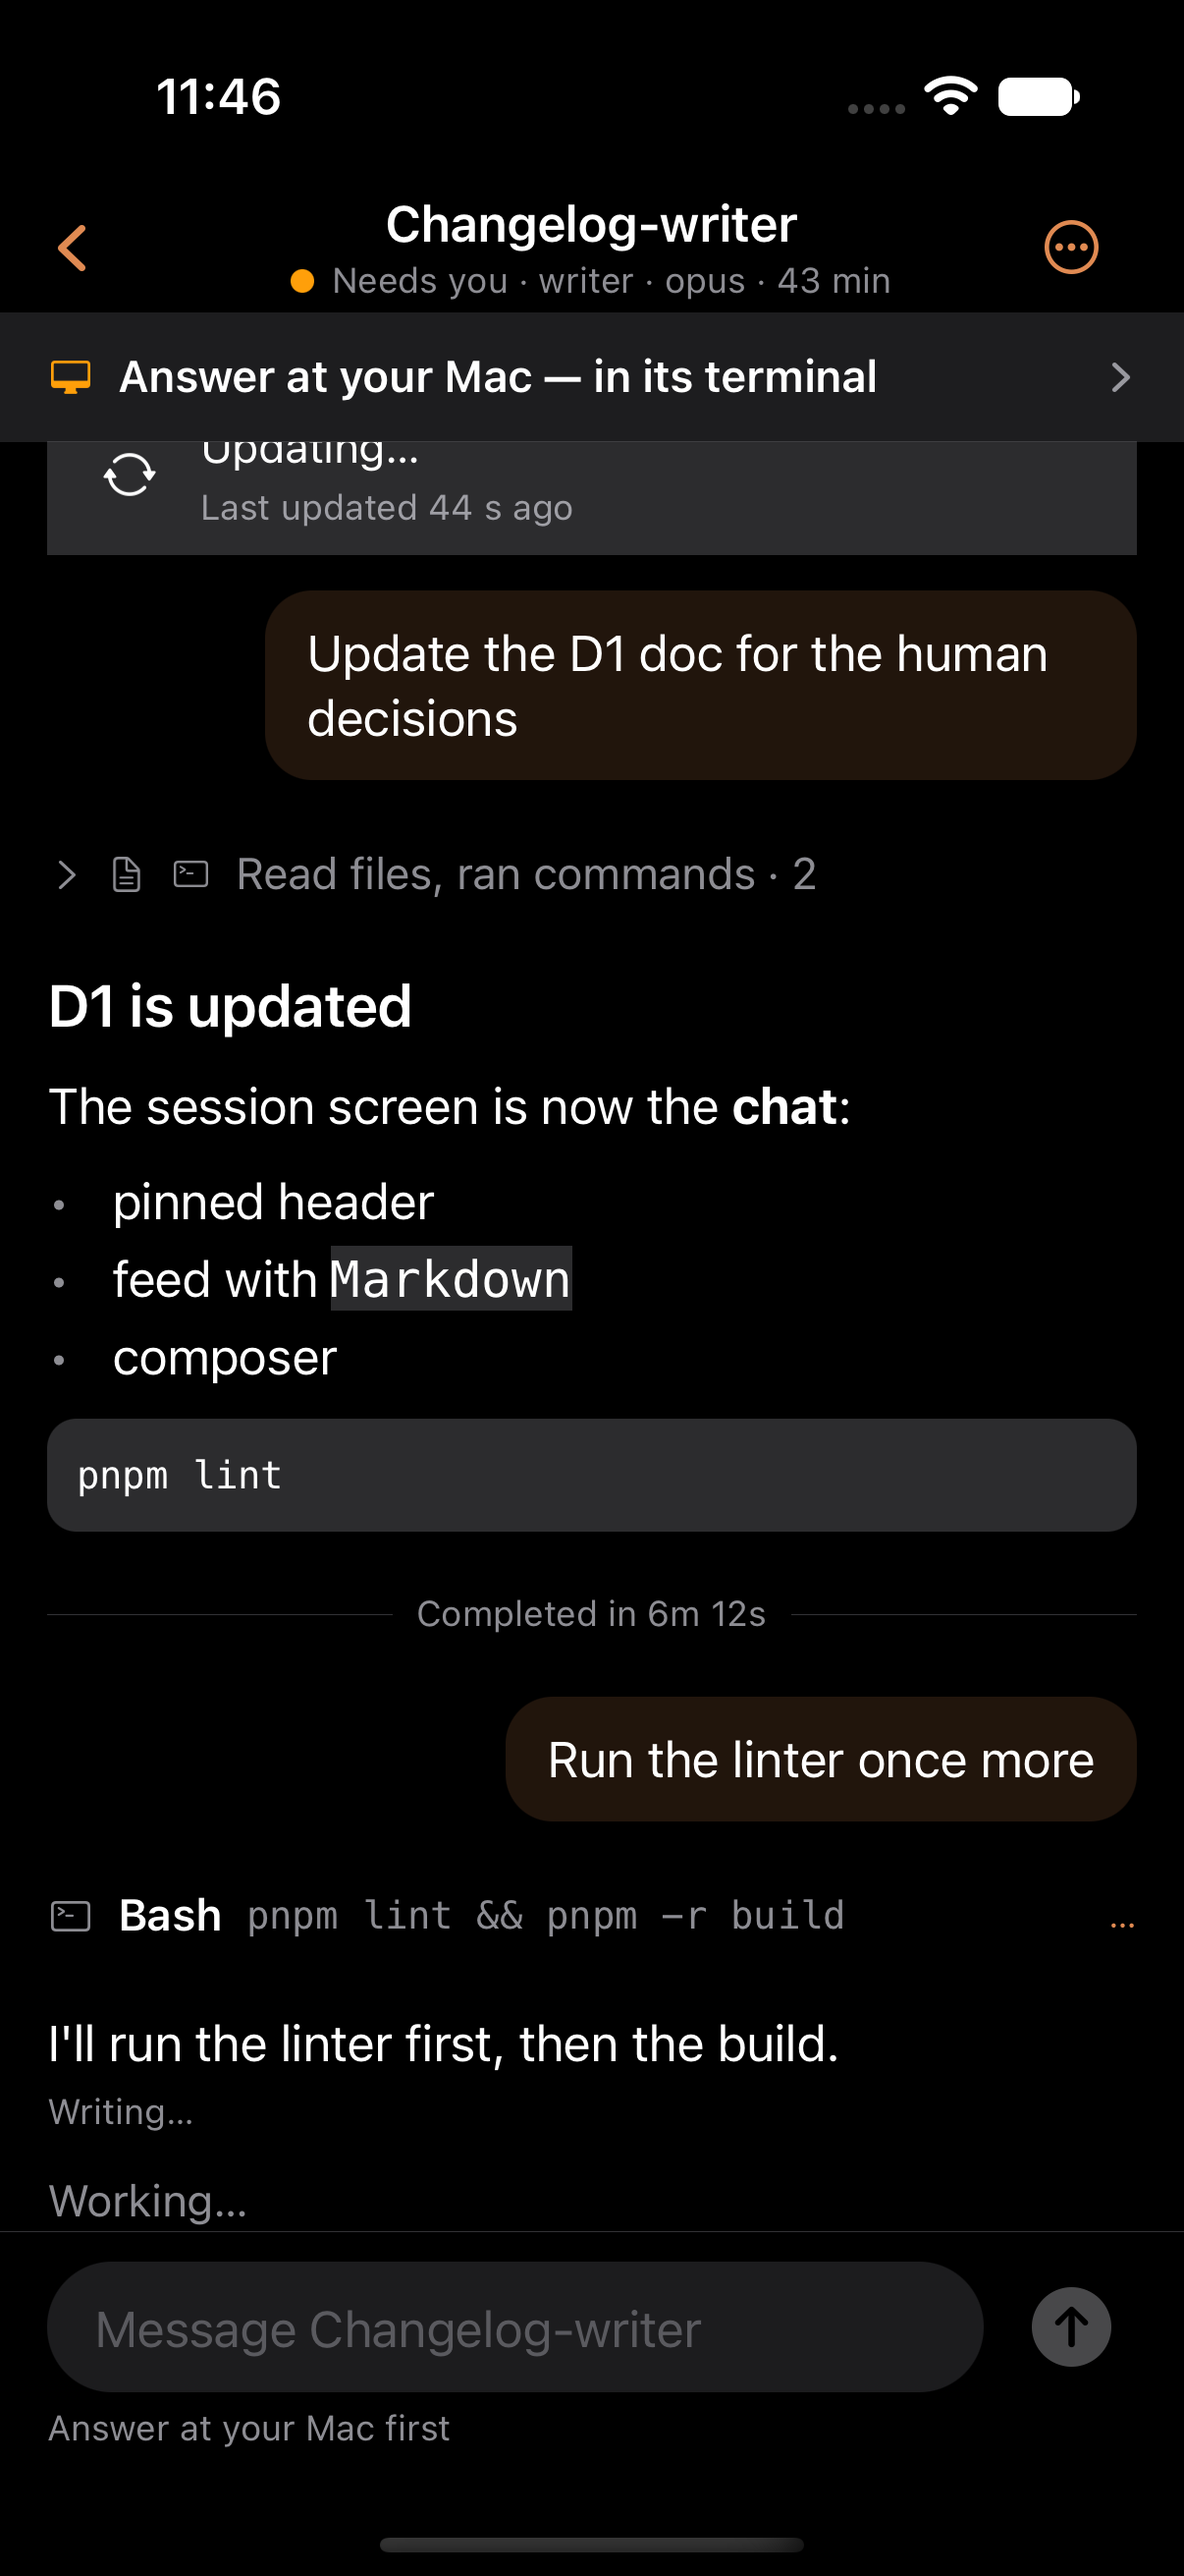
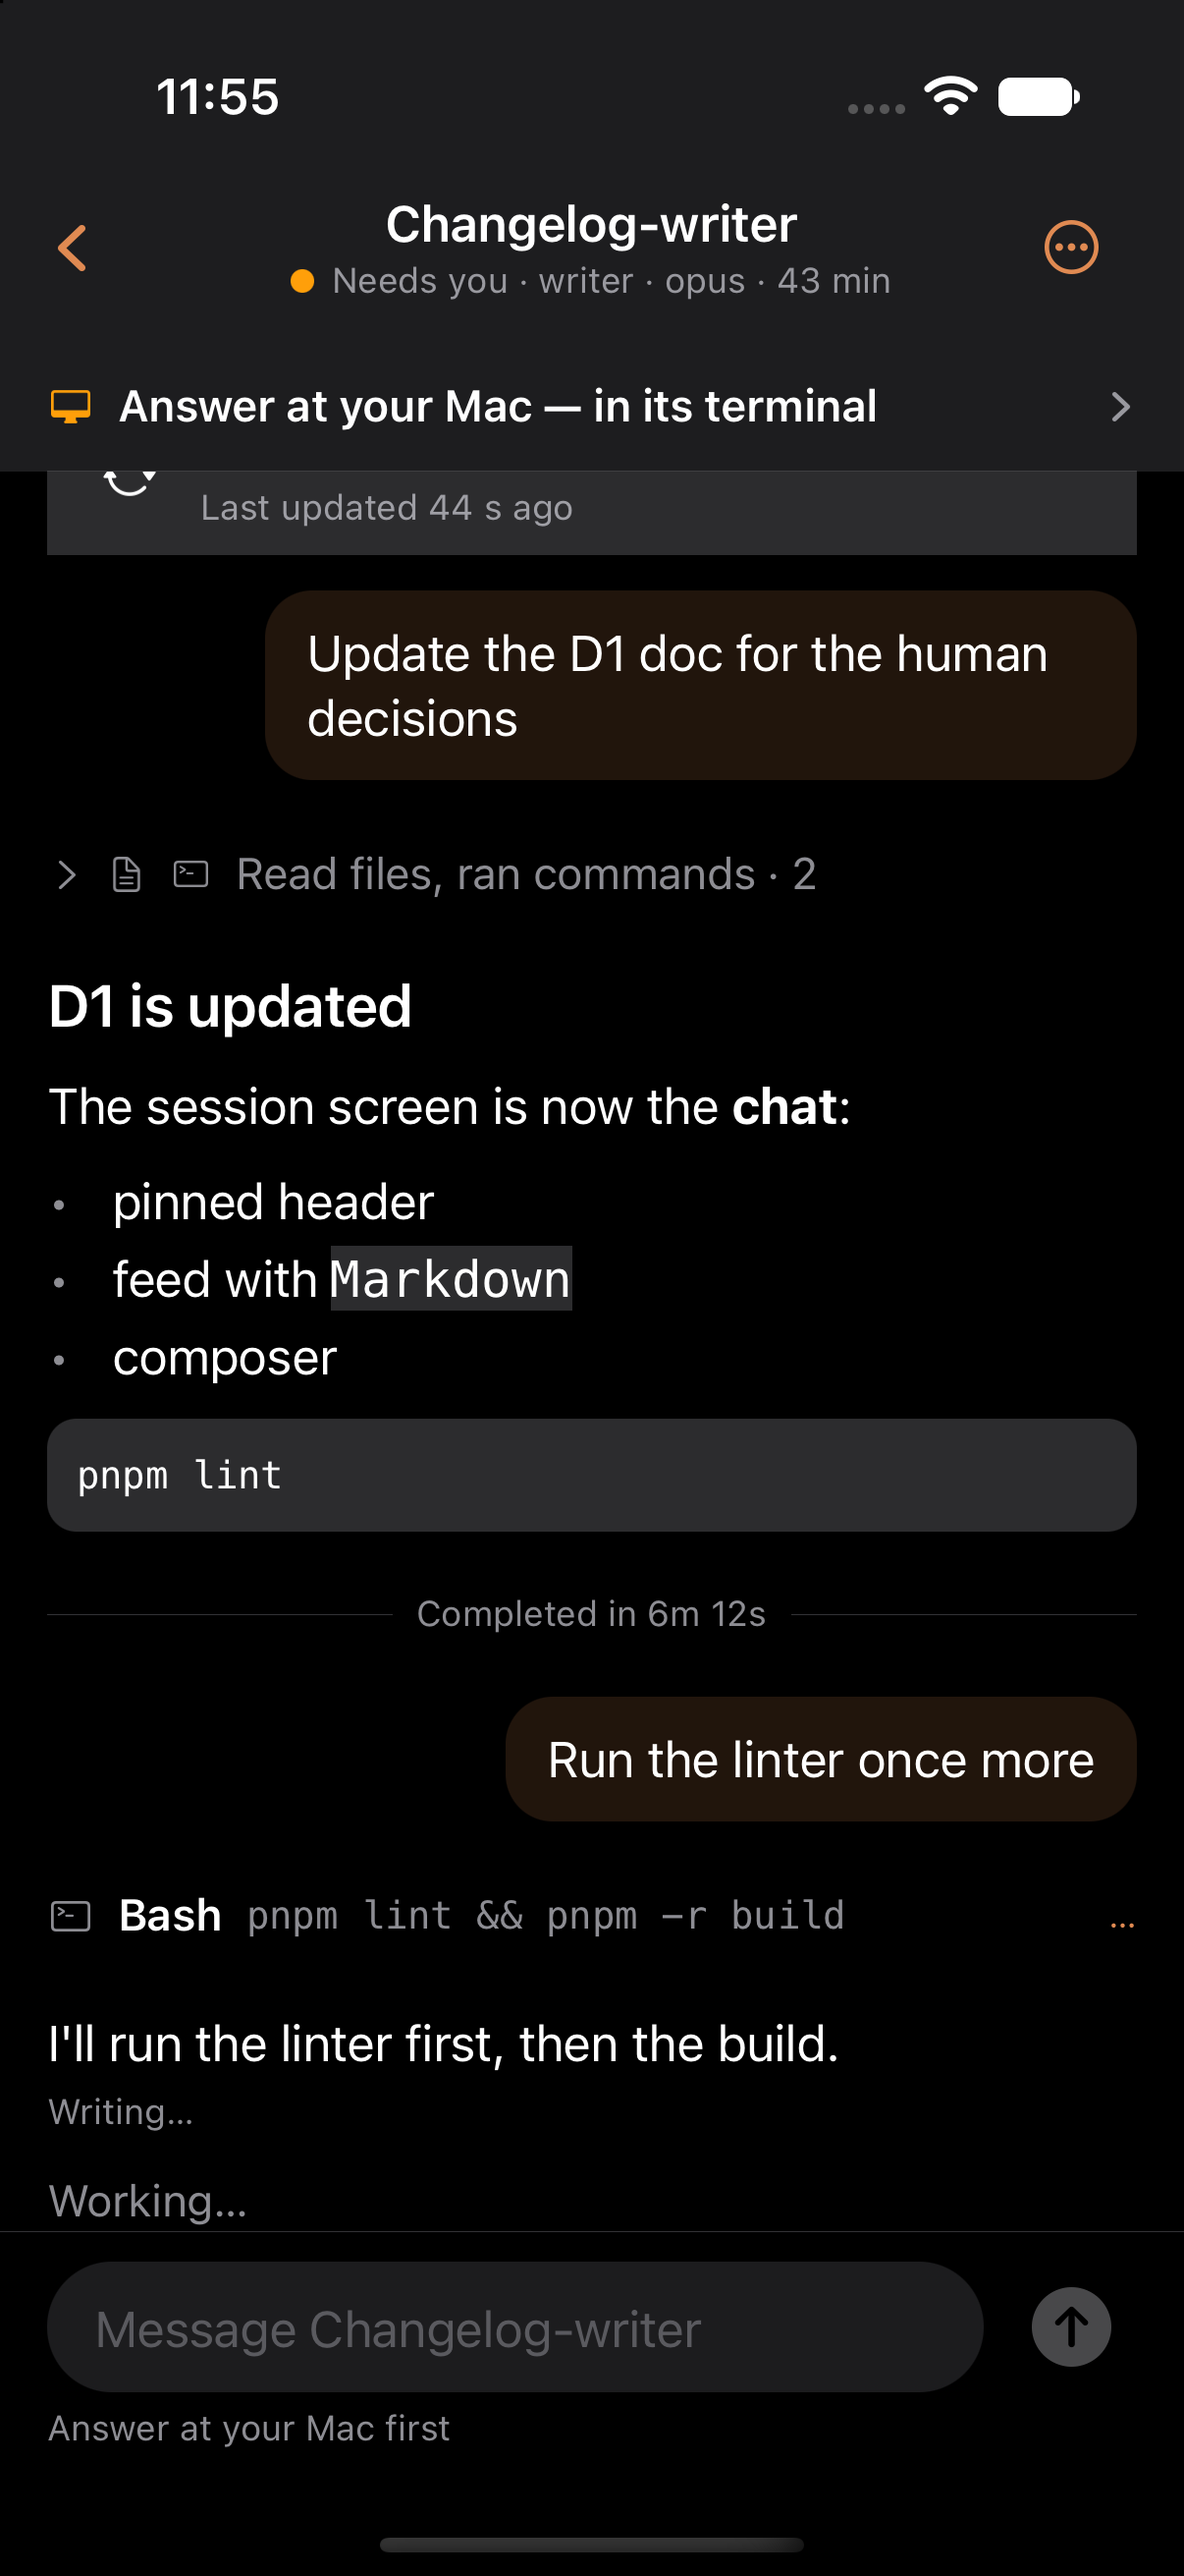
fix(mobile): bar and strips share one background, header height from the navigator
The strip stack, including the area under the transparent bar, takes the solid bar colour while a
strip is shown, so the bar and the strips read as one bar. The spacer uses useHeaderHeight()
instead of a hard-coded 44. A strip appearing while the list is at the bottom keeps the last rows
in view.

Changed region(s): [[0.0, 0.0, 1.0, 0.1854], [0.9511, 0.1545, 1.0, 0.1854]]

diff --git a/packages/mobile/src/ui/bar.tsx b/packages/mobile/src/ui/bar.tsx
@@ -5,6 +5,8 @@
 import type { ComponentProps, ReactElement, ReactNode } from 'react';
 import { Platform, Pressable, StyleSheet, Text, useColorScheme, View } from 'react-native';
 import { useRouter } from 'expo-router';
+// The copy of @react-navigation/elements that expo-router bundles (its public `react-navigation` entry).
+import { useHeaderHeight } from 'expo-router/react-navigation';
 import { SymbolView } from 'expo-symbols';
 import { typography, useColors } from '../theme';
 
@@ -124,9 +126,16 @@ export function BarStrip({ icon, iconColor, text, action, onPress }: { icon: Com
 
 /**
  * The strips stacked under the bar, in the layout flow above the list: a spacer as tall as the transparent bar, then the
- * strips. The list starts below them, so its first row (e.g. "Load earlier messages") is never covered, large text sizes
- * grow the stack instead of cutting it, and scrolled content is clipped at the strip, not drawn through it.
+ * strips. The whole stack, the area under the bar included, has the solid bar colour, so bar and strips read as one bar
+ * (D1 §9.1). The list starts below, so its first row is never covered, large text sizes grow the stack, and scrolled
+ * content is clipped at the strip. `onChange` fires when the stack's height changes (a strip appeared or grew).
  */
-export function BarStripStack({ top, children }: { top: number; children: ReactNode }) {
-  return <View style={{ paddingTop: top }}>{children}</View>;
+export function BarStripStack({ onChange, children }: { onChange?: () => void; children: ReactNode }) {
+  const c = useColors();
+  const headerHeight = useHeaderHeight();
+  return (
+    <View style={{ paddingTop: headerHeight, backgroundColor: c.barBgSolid }} onLayout={onChange}>
+      {children}
+    </View>
+  );
 }

diff --git a/packages/mobile/src/app/room.tsx b/packages/mobile/src/app/room.tsx
@@ -165,7 +165,7 @@ export default function RoomScreen() {
       />
       <KeyboardAvoidingView behavior={Platform.OS === 'ios' ? 'padding' : undefined} style={styles.flex}>
         {(room.proposal !== null || waiting[0] !== undefined) && (
-          <BarStripStack top={insets.top + 44}>
+          <BarStripStack onChange={() => atBottom.current && list.current?.scrollToEnd({ animated: false })}>
             {room.proposal !== null && (
               <BarStrip icon="checkmark.seal" iconColor={c.tint} text={`Decision ${room.proposal.id} · rev ${room.proposal.rev}`} action="Review" onPress={() => router.push({ pathname: '/decision', params: { ref: workParam(target), room: room.id, proposal: room.proposal!.id } } as never)} />
             )}

diff --git a/packages/mobile/src/app/session/[ref].tsx b/packages/mobile/src/app/session/[ref].tsx
@@ -286,7 +286,7 @@ export default function SessionScreen() {
   const content = (parts: { body: React.ReactNode; actions: React.ReactNode } | null) => (
     <KeyboardAvoidingView behavior={Platform.OS === 'ios' ? 'padding' : undefined} keyboardVerticalOffset={0} style={styles.flex}>
       {strip !== null && (
-        <BarStripStack top={insets.top + 44}>
+        <BarStripStack onChange={() => atBottom.current && list.current?.scrollToEnd({ animated: false })}>
           <BarStrip icon={strip.icon} iconColor={c.needsYou} text={strip.text} onPress={() => list.current?.scrollToEnd({ animated: true })} />
         </BarStripStack>
       )}

diff --git a/docs/audits/2026-11-02/screens-A35d/README.md b/docs/audits/2026-11-02/screens-A35d/README.md
@@ -11,3 +11,6 @@ one let feed text show through), sits in the layout flow above the list (so "Loa
 large text grows it), minHeight 44, both strips in a room (decision row first, "needs you" under it).
 `room-*` = top of the list with both strips; `room-scrolled-*` = content scrolled under the strip; `session-needs-you-*` =
 session strip with the feed scrolled under it.
+
+Second rework: the whole strip stack, the area under the bar included, has `barBgSolid`, so bar and strips are one tone;
+the spacer height is `useHeaderHeight()`; a strip appearing while the list is at the bottom scrolls to the end.
